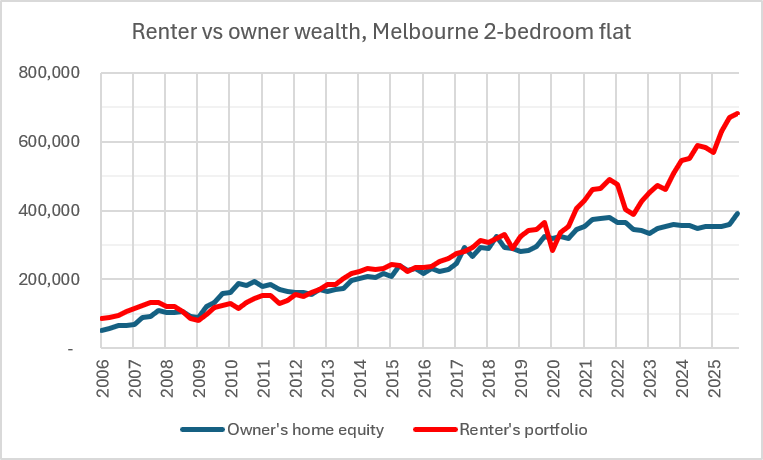
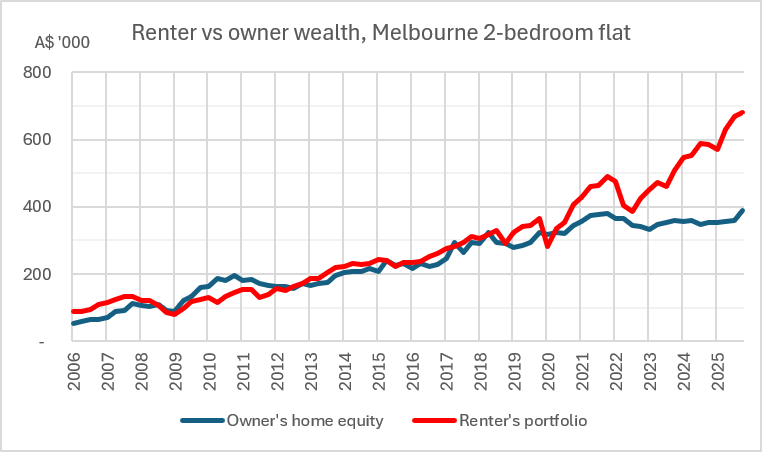
finalised post

diff --git a/post.md b/post.md
@@ -2,15 +2,15 @@
 
 Hi everyone,
 
-In 2025, Ben Felix made a series of YouTube videos in which he modelled buying a home in multiple Canadian cities and compared that to renting and investing the difference. Using historical data over twenty years, he showed that, despite conventional wisdom, renters in his model ended with higher wealth than comparable homeowners in major Canadian cities. These cities include Toronto, Montreal, and Winnipeg (which, by the way, is wonderful - the human rights museum is well worth a visit).
+In 2025, Ben Felix made a series of YouTube videos in which he modelled buying a home in multiple Canadian cities and compared that to renting and investing the difference. Using historical data over twenty years, he showed that, despite conventional wisdom, renters in his model ended with higher wealth than comparable homeowners in major Canadian cities. These cities include Toronto (which I've never visited), Montreal (which I've never visited), and Winnipeg (which, by the way, is wonderful - the human rights museum is well worth a visit).
 
-I wondered - what would the numbers look like for Australia? Though on the opposite sides of the world, Canada and Australia have similar housing markets, and similar crisis-level housing issues. The Australian Dream of a quarter-acre suburban block with a front and back garden seem like a carbon copy of the Canadian (and for that matter American) Dream.
+I wondered - what would the numbers look like for Australia? Though on the opposite sides of the world, Canada and Australia have similar housing markets. The Australian Dream of a quarter-acre suburban block with a front and back garden seem like a carbon copy of the Canadian (and for that matter American) Dream.
 
-And in the past twenty years the (real and perceived) issues impacting the Canadian and Australian housing markets also seem similar. Landlords taking advantage of poor tenant protections and rental regulations. An array of issues being blamed for the spike in housing prices, from tax breaks for investment properties to rising construction costs and high rates of immigration. Increasing housing stress for both renters and mortgage payers.
+And in the past twenty years the (real and perceived) issues impacting the Canadian and Australian housing markets (and housing crises!) also seem similar. Landlords taking advantage of poor tenant protections and rental regulations. An array of issues being blamed for the spike in housing prices, from tax breaks for investment properties to rising construction costs and high rates of immigration. Increasing financial stress for both renters and mortgage payers.
 
-Seeing how home prices have risen so greatly in their lifetime, and the social/cultural pressures favouring homeownership, it's clear why many Australians think owning a house is both necessary and sufficient for building wealth. But are they right? To answer that question, I've adapted the model presented by Mr Felix in his videos (and further detailed in a 2025 paper he co-wrote with Hamza Bin Arif) to analyse wealth outcomes of renting versus owning in Australian cities over the past 20 years, starting from January 2006 and ending in December 2025. 
+Seeing how home prices have risen so greatly in their lifetime, and the social/cultural pressures favouring homeownership, it's clear why many Australians think owning a house is both necessary and sufficient for building wealth. But are they right? To answer that question, I've adapted the model presented by Mr Felix in his videos (and further detailed in a 2025 paper he co-wrote with Hamza Bin Arif) to analyse wealth outcomes of renting versus owning in Australian cities over the past 20 years, starting from January 2006 and ending in December 2025.
 
-## Sydney and Melbourne renters ended with more wealth than owners, for both apartments and detached houses
+## Sydney and Melbourne renters ended with more wealth than owners, for both flats and detached houses 
 
 I live in Sydney, the greatest city in the world. (I will accept Winnipeg as a close second.) Believing that it's the greatest city in the world helped a little bit, though not enough, when I faced 20% year-on-year rent increases from about 2022 to 2024. Not to mention how rents have grown by around 5% per year on average over the past 20 years.
 
@@ -24,7 +24,7 @@ To put it another way, the owner had ended up with half a million Australian dol
 
 So I was even more surprised when renting beat out owning for Sydney three-bedroom detached houses as well, albeit at a narrower margin of 1.19. Although the house owner had amassed A$1.1 million in home equity, the renter's portfolio ended at A$1.3 million.
 
-The story was similar for Melbourne. The ending wealth ratio for 2-bedroom flats was 1.74 in favour of the renter, owing to Melbourne's sluggish growth in both apartment prices and rents over the past decade, especially post-Covid. Meanwhile, the Australian and global stock markets continued to make significant gains during that period, leading to a greater wealth gap in favour of the renter.
+The story was similar for (Greater) Melbourne. The ending wealth ratio for 2-bedroom flats was 1.74 in favour of the renter, owing to Melbourne's sluggish growth in both apartment prices and rents over the past decade, especially post-Covid. Meanwhile, the Australian and global stock markets continued to make significant gains during that period, leading to a greater wealth gap in favour of the renter.
 
 ![Renter vs owner wealth, Melbourne 2-bedroom flat](mel-2br_f.png)
 
@@ -42,28 +42,108 @@ Now that you've seen the results, let's look at the methodology. I've modified t
 
 ### Rents and related costs
 
-The different Australian states and territories publish median rents for private housing at different levels of  
+The different Australian states and territories publish median rents for private housing, based on data for new rental bonds (security deposits), at different levels of aggregation and varying time periods. Both New South Wales and Victoria publish median rents for both houses and flats, separated by number of bedrooms, for every quarter since January 2006.
 
-Sydney data is from the Rent and Sales Report published by the New South Wales Department of Communities and Justice.
+Sydney rent data is from the Rent and Sales Report published by the New South Wales Department of Communities and Justice (DCJ).
+
+Melbourne rent data is from the Rental Report published by Homes Victoria.
+
+Other states do not publish the equivalent data at such a neat and gift-wrapped level, so I'm going to have to get back to you all on what Brisbane, Adelaide, etc. look like.
 
 [comment]: <> (Brisbane data is from QLD RTA, SA rent data is from private rent report by South Australian Housing Trust.)
 
-Data from the Australian Census indicates that a majority of houses have three or fewer bedrooms, and that a majority of flats have two or fewer. 
+We assume that the renter signs a year-long lease at the start of the scenario in January 2006 at the market rate, and then renews each year at the market rate.
 
-***Assuming that median house rent = 3 bed and median flat = 2 bed, compare to census (and published NSW data?) shows comparable median rent and median 3bh/2bf rent. So the assumption holds up.***
+There is an additional $150 per quarter (nominal) representing renter's insurance and other costs. This is a minor factor on the outcome. (But nonetheless I'm wondering why I didn't adjust this for inflation...)
 
 ### Investments
 
+The model assumes that the renter invests the difference between their housing costs and the owner's housing costs at the start of each quarter into a portfolio of 30% Australian and 70% global shares tracking the MSCI Australia IMI (gross of dividends) and the MSCI World IMI (net of dividends) total return indices. The expense ratio is set at 0.25% per annum.
+
 ### Home prices
 
-Home prices are 
+There are multiple available datasets for median home sale prices but none of them separate by number of bedrooms, only by type of dwelling (separate/established/detached houses and attached dwellings, i.e. flats/units). I have assumed that the median price detached house is comparable to the median 3-bedroom detached house available to both renters and homebuyers, and likewise for the median prices for all units and 2-bedroom units. This assumption is essentially that the home/unit in which the owner resides is comparable to the median 3-bed home/2-bed unit in which the renter resides, which is necessary for the model to make a fair comparison.
+
+I think this assumption is justified because data from the Australian Census indicates that the median number of bedrooms in Australian houses is three, and that the median number of bedrooms for units is two. But I think the justification needs to be more rigorous, maybe by comparing assumed home rents and prices with Census data for time periods where that data is available.
+
+The home price data is separated not by dwelling type but by ownership structure (strata versus non-strata, strata being the Australian equivalent of a condominium). However, I have assumed that strata properties are broadly equivalent to flats and non-strata properties are broadly equivalent to detached houses.
+
+Sydney price data is from the DCJ Rent and Sales Report. 
+
+Melbourne price data is from the Australian Bureau of Statistics Total Value of Dwellings report.
+
+### Home loan (mortgage) costs
+
+The model assumes that the owner buys the house with a 20% deposit and variable-rate home loan (mortgage) at a 25-year term. These terms are the most common in Australia.
+
+The home loan rate is the variable discounted owner-occupier rate from the Reserve Bank of Australia's quarterly indicator lending rates dataset.
 
 ### Home transaction costs
 
-### Home upkeep costs
+For real estate agent commissions, I have assumed 1.5% of the home value on top of the price when purchasing the home, and 1.5% again when selling the home, according to Kaczerepa (2022).
+
+When purchasing the home, the 1.5% commission is added to stamp duty, which is calculated as it would have been on 1 January 2006. The calculated stamp duty ranges from 3.31% to 4.68% of the home purchase price, depending on the state and home price. This 4.8%-6.1% cost is added to the owner's cashflow costs.
+
+(The relevant stamp duty legislation is the _Duties Act 1997_ (NSW) effective 7 December 2005, and _Duties Act 2000_ (Vic) effective 1 January 2006)
+
+When selling the home, an additional 0.5% in other costs is added to the 1.5% commission to form the total cost of selling the home. This 2% is deducted from home equity.
+
+### Depreciation, maintenance, and renovation costs
+
+Felix and Bin Arif use 1% of home prices for depreciation and 1/3 of gross rents for maintenance, with the simple average for both in their sample of Canadian cities being 2.66% of home prices.
+
+Fox and Tulip 2014 (refer to Tables 1, A2) look at 2010-11 tax statistics from the Australian Tax Office (ATO) and calculate home ownership running costs (council rates, maintenance, and plant depreciation) of 35.8% of rental income or 1.5% of property value. Using the same method with 2022-23 ATO data gets between 29.3% in Western Australia and 40.6% in Queensland with a simple average of 33.2% so the methodology still holds up.
+
+The model has 35% of rent to cover total home ownership running costs, or 1-1.5% of home prices. This is represented as an additional cashflow cost.
+
+Fox and Tulip also cite Stapledon (2007, 2012) who states that from 1960-2005, alterations and renovations contributed 1.15 percentage points a year to home value and depreciation reduced home values by 1.06 percentage points a year.
+
+I have chosen to model the owner's home depreciating in value by 1% of the original purchase price per year, and reduce home price growth by 1.15 percentage points per year to account for renovations and alterations.
+
+![Growth of indices, Sydney 3-bedroom home](indices.png)
+
+As the chart shows, the adjusted home price is quite a bit lower than the median home price. This is appropriate because the median home in 2025 is not the median home in 2006 that the owner bought, and that part of the reason home prices have grown is because of renovations which represents an investment cost. To accurately compare the wealth outcomes of homeownership with an alternative, the model cancels out the effect of renovations on aggregate housing prices.
+
+## Modelling taxes and superannuation changes the margins but not the winners
+
+This analysis was done without considering the effect of taxes. The owner pays the mortgage and other costs with post-tax money, and the renter pays the rent and invests the difference with the same post-tax money.
+
+Modelling the effect of taxes would have made the analysis more complicated while reducing the applicability of the results to people's real-life situations. Accurately modelling taxation would have required specifying many more details including personal income, assets, and withdrawal rates. All that just to get outdated post-tax outcomes anyway, thanks to the Albanese Government's capital gains tax changes in the budget last May.
+
+That said, accounting for capital gains tax (which is not charged on owner-occupied homes) has a moderate effect on the outcome. For example, modelling the 50% capital gains discount method that applied during this time period (and was repealed in the May budget) led the ending wealth ratio for Sydney 3-bedroom houses to decrease from 1.19 to 1.06. Still favouring the renter, but only just.
+
+On the other hand, considering superannuation would have led to even higher relative wealth for the renter. The owner has to pay mortgage with their post-tax money, while the renter has the option of investing through super and gaining a tax break. Investing through super would have led the ending wealth ratio for Sydney 3-bedroom houses to increase to 1.39.
+
+## Thank you for reading, and I welcome all comments and feedback
+
+I've been a long-term viewer of Ben's videos, moderate-time lurker of this forum and first-time poster. So I'm really excited to share this work and I hope this is a welcome contribution to the forum. I chose to post this here because I think there would be a lot of good constructive criticism and feedback.
+
+When I've done the analysis for more cities and potentially refined the model, I plan to add to what I've written here and publish it on my website (https://hattamisra.github.io/), along with accompanying documents (such as the Excel spreadsheets) as well.
+
+(All views in this post are my own and do not represent those of any of my employers, past or present.)
+
+Thanks for reading,
+
+Hatta
 
 ## Works cited
 
+Australian Bureau of Statistics (2026). Total value of dwellings (March quarter 2026). Australian Government. <https://www.abs.gov.au/statistics/economy/price-indexes-and-inflation/total-value-dwellings/latest-release>. Retrieved 6 June 2026.
+
+Australian Taxation Office (27 June 2025). Taxation statistics 2022-23. ATO. <https://www.ato.gov.au/about-ato/research-and-statistics/in-detail/taxation-statistics/taxation-statistics-previous-editions/taxation-statistics-2022-23>. Retrieved 03 April 2026.
+
+_Duties Act 1997_ (NSW) §32. Version effective 07 December 2005. <https://legislation.nsw.gov.au/view/html/inforce/2005-12-07/act-1997-123#sec.32> 
+
+_Duties Act 2000_ (Vic) §28. Version effective 01 January 2006. <https://www.legislation.vic.gov.au/in-force/acts/duties-act-2000/046>
+
 Felix, Benjamin and Hamza Bin Arif (2025). Renting vs owning a home in Canada 2005-2024. PWL Capital. <https://pwlcapital.com/renting-vs-owning-a-home-in-canada-2005-2024/>
 
+Fox, Ryan and Peter Tulip (July 2014). Is housing overvalued? Research Discussion Paper (RDP) 2014-06, Reserve Bank of Australia. <https://www.rba.gov.au/publications/rdp/2014/2014-06/>
+
+Homes Victoria (n.d.). Rental report - quarterly: quarterly median rents by LGA. Victorian Government. <https://discover.data.vic.gov.au/dataset/rental-report-quarterly-quarterly-median-rents-by-lga>. Retrieved 29 March 2026.
+
+Kaczerepa, Gemma (20 September 2022). "Real estate commissions: How does it work and how much should you be paying?" Realestate.com.au. <https://www.realestate.com.au/advice/real-estate-agent-commissions/>. Retrieved 01 April 2026.
+
 New South Wales Department of Communities and Justice (n.d.). Housing rent and sales [rent and sales report]. New South Wales Government. <https://dcj.nsw.gov.au/about-us/families-and-communities-statistics/housing-rent-and-sales.html>. Retrieved 29 March 2026.
+
+Reserve Bank of Australia (n.d.). Lenders' interest rates. RBA. <https://www.rba.gov.au/statistics/interest-rates/>. Retrieved 29 March 2026.
